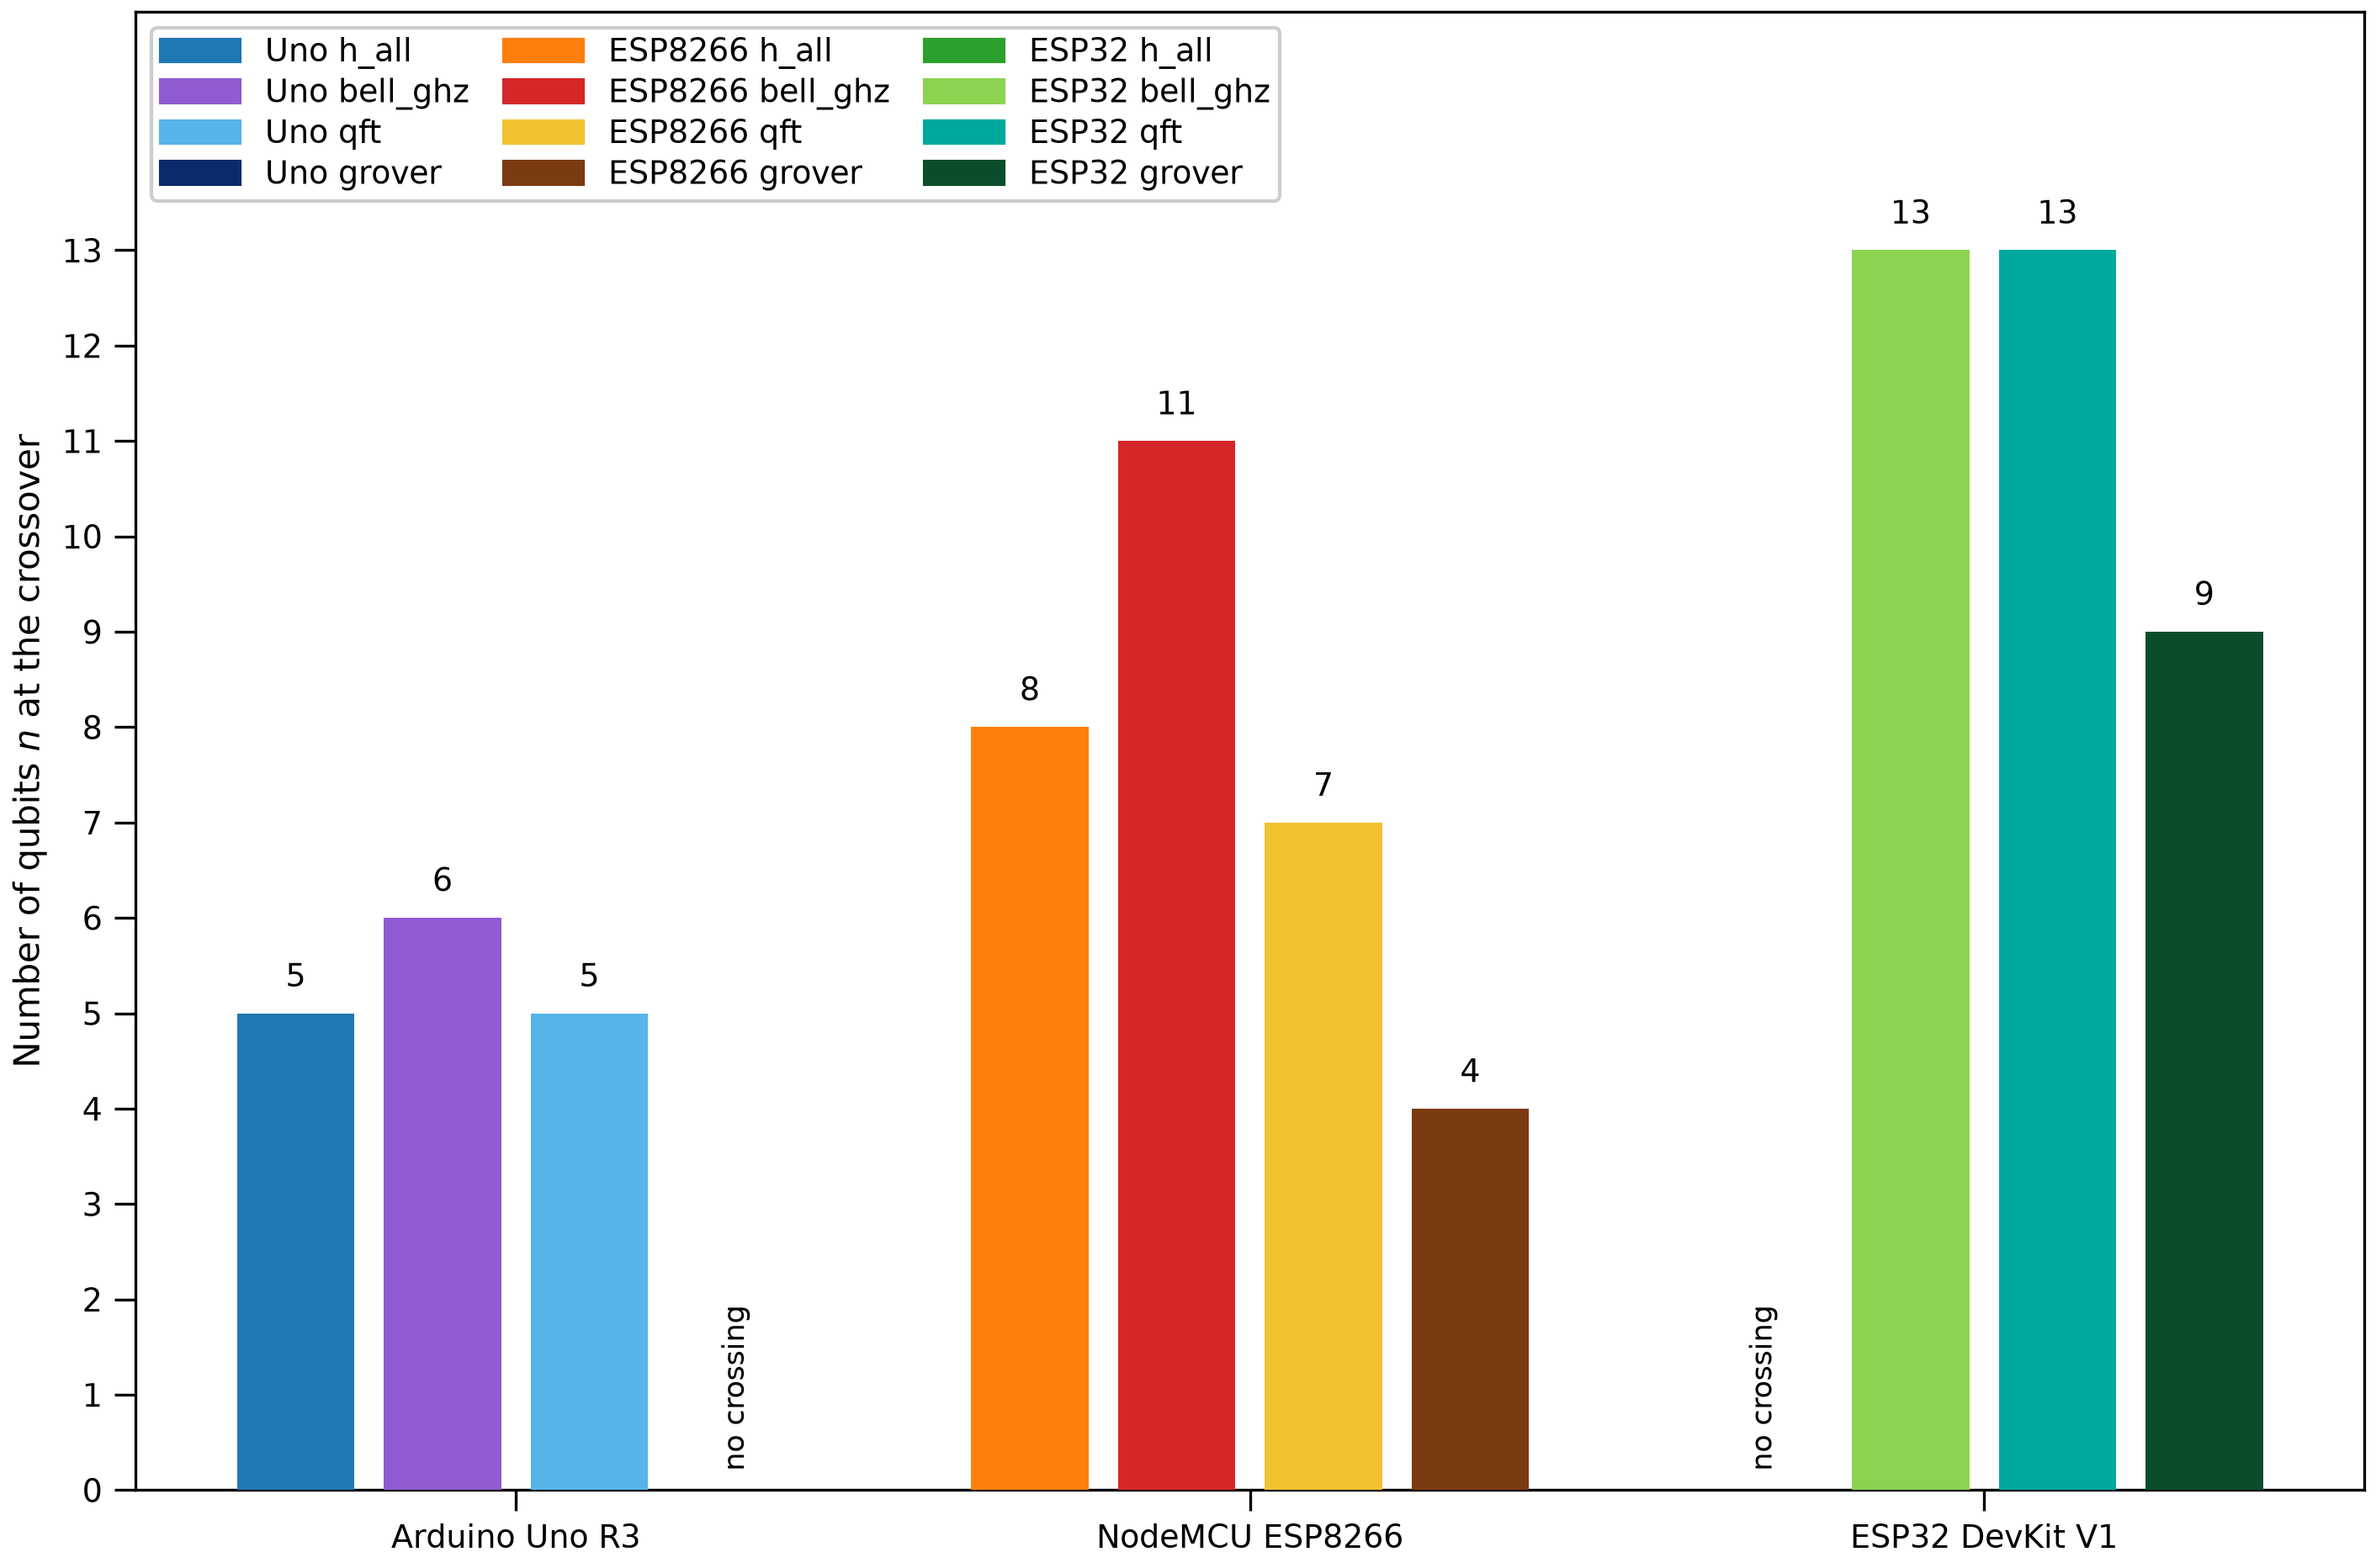
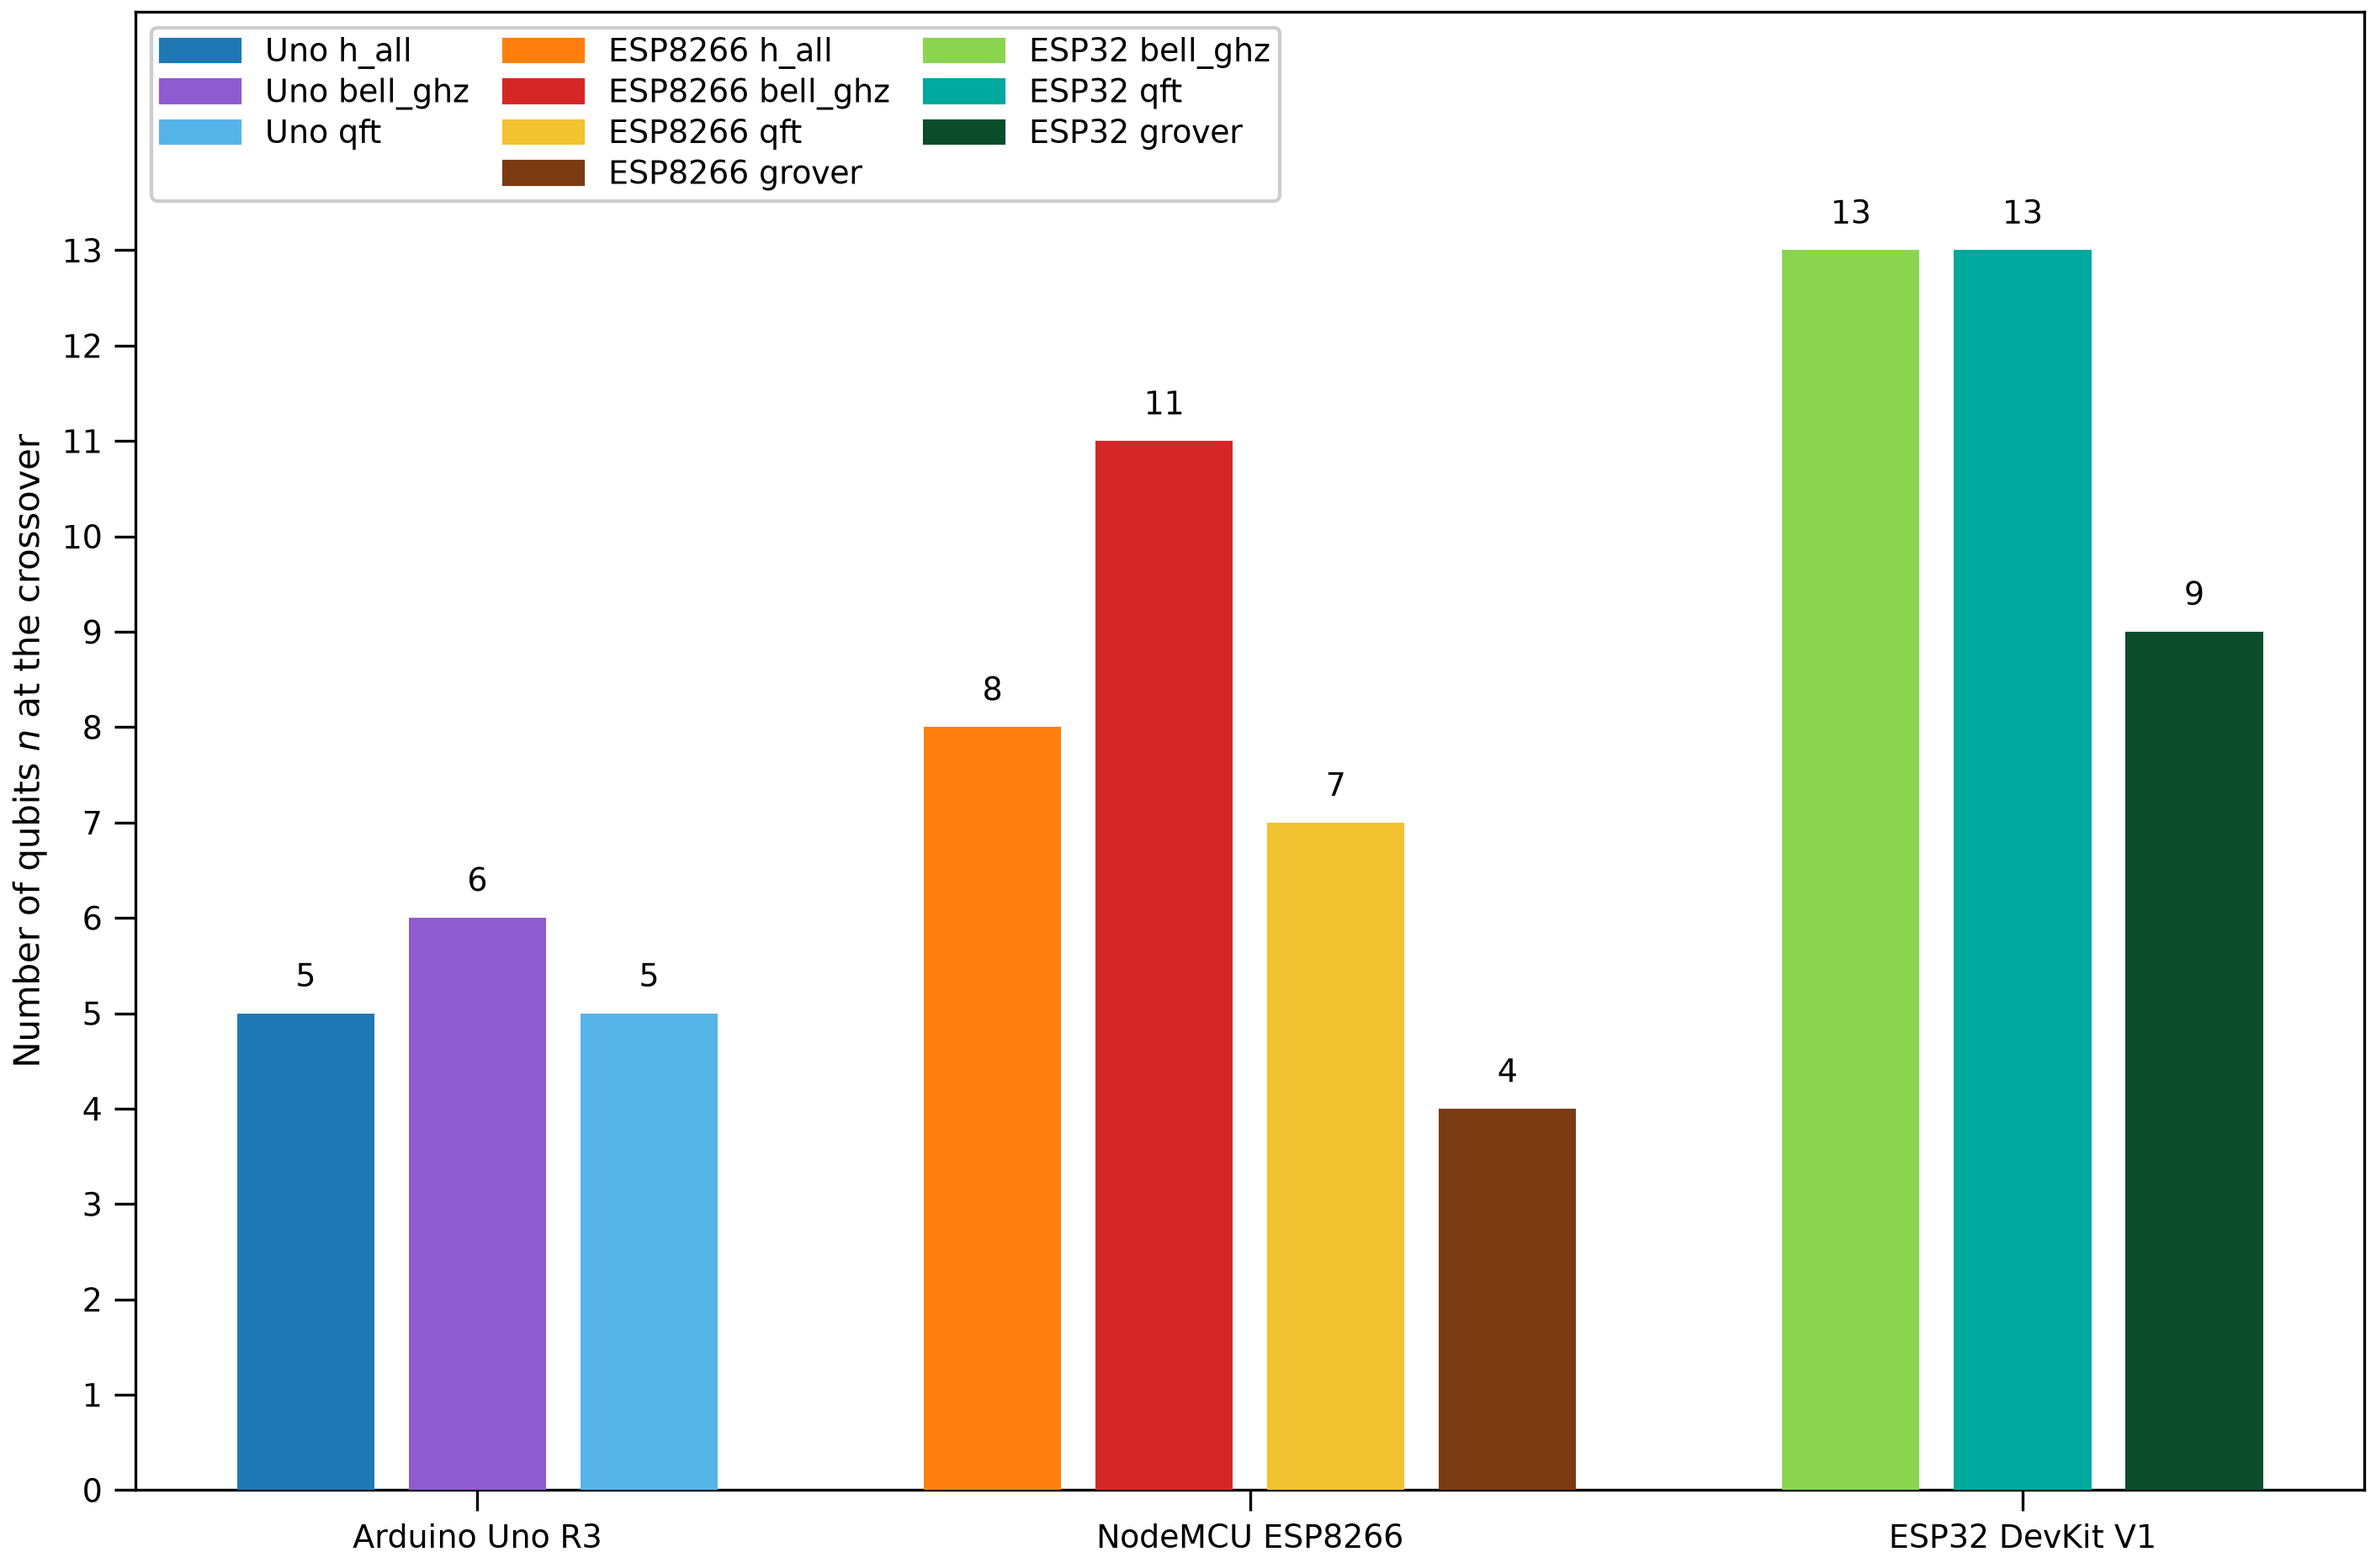
figures: all_boards_all_circuits.png leaves out the circuits whose lines do not cross (Uno grover, ESP32 h_all)

diff --git a/analysis/phase4_all_in_one.py b/analysis/phase4_all_in_one.py
@@ -31,25 +31,29 @@ def main():
     house.apply_style()
     cv = pd.read_csv(HERE.parent / "data" / "derived" / "counter_validity.csv")
     cv = cv[cv.selected.astype(bool) & (cv.usable.astype(bool) | (cv.n == 2)) & (cv.counter_median_us > 0)]      # as analysis/algorithm_house_plots.py
-    nb, nc = len(C.BOARDS), len(C.CIRCUITS)
+    nb = len(C.BOARDS)
     fig, ax = plt.subplots(constrained_layout=True)
-    handles, top = [], 0
+    handles, top, centres, x = [], 0, [], 0
     for bi, b in enumerate(C.BOARDS):
+        first = x
         for ci, c in enumerate(C.CIRCUITS):
-            col = house.family(bi)[ci]
-            x = bi * (nc + 1) + ci
-            handles.append(Patch(color=col, label=f"{SHORT[b]} {c}"))
             g = cv[(cv.phase == 2) & (cv.board == b) & (cv.circuit == c)].sort_values("n")
             o = cv[(cv.phase == 3) & (cv.board == b) & (cv.circuit == c)].sort_values("n")
             pts = crossings(g.n, g.counter_median_us, o.n, o.counter_median_us)
-            if not pts:
-                ax.text(x, 0.2, "no crossing", ha="center", va="bottom", fontsize=8.5, rotation=90)
+            if not pts:                                  # the lines do not cross: the circuit is left out of the chart
                 continue
+            col = house.family(bi)[ci]
+            handles.append(Patch(color=col, label=f"{SHORT[b]} {c}"))
             k = math.ceil(pts[-1][0] - 1e-9)           # first whole n at which offload is faster than local
             ax.bar(x, k, color=col, zorder=3)
             ax.text(x, k + 0.2, f"{k}", ha="center", va="bottom", fontsize=9)
             top = max(top, k)
-    ax.set_xticks([bi * (nc + 1) + (nc - 1) / 2 for bi in range(nb)], [LABEL[b] for b in C.BOARDS])
+            x += 1
+        while len(handles) % len(C.CIRCUITS):             # blank legend entry so every board keeps its own legend column
+            handles.append(Patch(color="none", label=" "))
+        centres.append((first + x - 1) / 2)
+        x += 1                                           # gap between boards
+    ax.set_xticks(centres, [LABEL[b] for b in C.BOARDS])
     ax.set_ylabel("Number of qubits $n$ at the crossover")
     ax.set_ylim(0, top + 2.5)
     ax.set_yticks(range(0, top + 1))                    # equal spacing: a tick at every whole n
